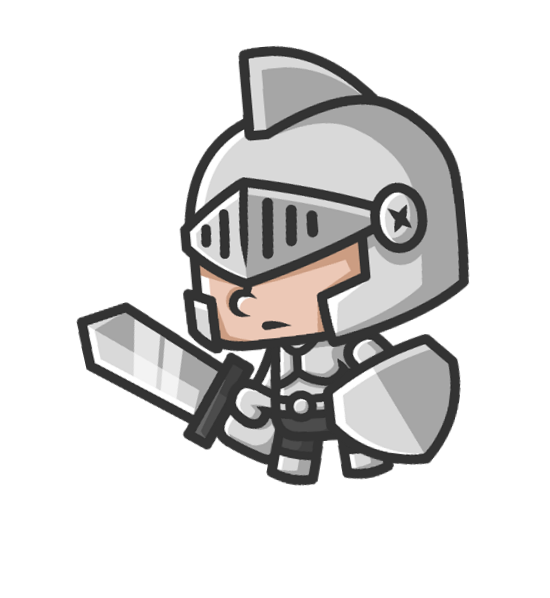
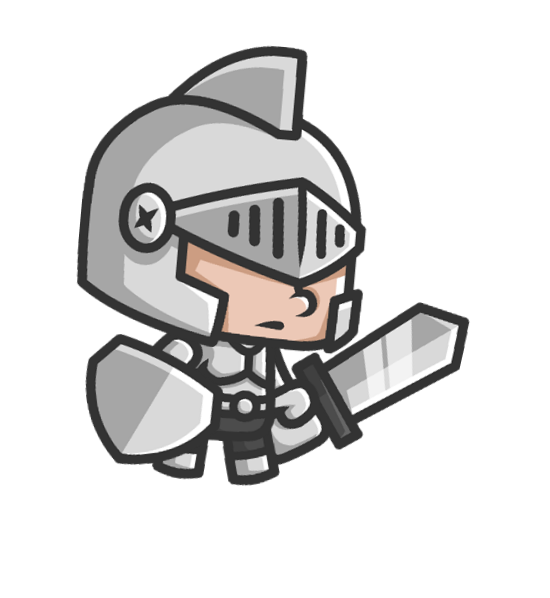
character moves perfect

diff --git a/js/Hero.js b/js/Hero.js
@@ -1,0 +1,185 @@
+var fps = 24;
+var knightIdleRight = ['images/knight/01-Idle_/2D_KNIGHT__Idle_000.png',
+               'images/knight/01-Idle_/2D_KNIGHT__Idle_001.png',
+               'images/knight/01-Idle_/2D_KNIGHT__Idle_002.png',
+               'images/knight/01-Idle_/2D_KNIGHT__Idle_003.png',
+               'images/knight/01-Idle_/2D_KNIGHT__Idle_004.png',
+               'images/knight/01-Idle_/2D_KNIGHT__Idle_005.png',
+               'images/knight/01-Idle_/2D_KNIGHT__Idle_006.png',
+               'images/knight/01-Idle_/2D_KNIGHT__Idle_007.png'];
+
+var knightRunRight = ['images/knight/02-Run_/2D_KNIGHT__Run_000.png',
+              'images/knight/02-Run_/2D_KNIGHT__Run_001.png',
+              'images/knight/02-Run_/2D_KNIGHT__Run_002.png',
+              'images/knight/02-Run_/2D_KNIGHT__Run_003.png',
+              'images/knight/02-Run_/2D_KNIGHT__Run_004.png',
+              'images/knight/02-Run_/2D_KNIGHT__Run_005.png',
+              'images/knight/02-Run_/2D_KNIGHT__Run_006.png',
+              'images/knight/02-Run_/2D_KNIGHT__Run_007.png'];
+
+var knightAttackRight = ['images/knight/03-Attack_/2D_KNIGHT__Attack_000.png',
+              'images/knight/03-Attack_/2D_KNIGHT__Attack_001.png',
+              'images/knight/03-Attack_/2D_KNIGHT__Attack_002.png',
+              'images/knight/03-Attack_/2D_KNIGHT__Attack_003.png',
+              'images/knight/03-Attack_/2D_KNIGHT__Attack_004.png',
+              'images/knight/03-Attack_/2D_KNIGHT__Attack_005.png',
+              'images/knight/03-Attack_/2D_KNIGHT__Attack_006.png',
+              'images/knight/03-Attack_/2D_KNIGHT__Attack_007.png'];
+
+var knightJumpRight = ['images/knight/04-Jump_/2D_KNIGHT__Jump_Up_000.png'];
+var knightJumpRightFinish = ['images/knight/04-Jump_/2D_KNIGHT__Fall_Down_000.png'];
+var knightHurtRight = ['images/knight/05-Hurt_/2D_KNIGHT__Hurt_000.png',
+              'images/knight/05-Hurt_/2D_KNIGHT__Hurt_001.png',
+              'images/knight/05-Hurt_/2D_KNIGHT__Hurt_002.png',
+              'images/knight/05-Hurt_/2D_KNIGHT__Hurt_003.png',
+              'images/knight/05-Hurt_/2D_KNIGHT__Hurt_004.png',
+              'images/knight/05-Hurt_2D_KNIGHT__Hurt_005.png',
+              'images/knight/05-Hurt_/2D_KNIGHT__Hurt_006.png',
+              'images/knight/05-Hurt_/2D_KNIGHT__Hurt_007.png'];
+
+var knightDieRight = ['images/knight/05-Die_/2D_KNIGHT__Die_000.png',
+              'images/knight/05-Die_/2D_KNIGHT__Die_001.png',
+              'images/knight/05-Die_/2D_KNIGHT__Die_002.png',
+              'images/knight/05-Die_/2D_KNIGHT__Die_003.png',
+              'images/knight/05-Die_/2D_KNIGHT__Die_004.png',
+              'images/knight/05-Die_2D_KNIGHT__Die_005.png',
+              'images/knight/05-Die_/2D_KNIGHT__Die_006.png',
+              'images/knight/05-Die_/2D_KNIGHT__Die_007.png'];
+
+var knightIdleLeft = ['images/knightLeft/01-Idle_/2D_KNIGHT__Idle_000.png',
+             'images/knightLeft/01-Idle_/2D_KNIGHT__Idle_001.png',
+             'images/knightLeft/01-Idle_/2D_KNIGHT__Idle_002.png',
+             'images/knightLeft/01-Idle_/2D_KNIGHT__Idle_003.png',
+             'images/knightLeft/01-Idle_/2D_KNIGHT__Idle_004.png',
+             'images/knightLeft/01-Idle_/2D_KNIGHT__Idle_005.png',
+             'images/knightLeft/01-Idle_/2D_KNIGHT__Idle_006.png',
+             'images/knightLeft/01-Idle_/2D_KNIGHT__Idle_007.png'];
+
+var knightRunLeft = ['images/knightLeft/02-Run_/2D_KNIGHT__Run_000.png',
+            'images/knightLeft/02-Run_/2D_KNIGHT__Run_001.png',
+            'images/knightLeft/02-Run_/2D_KNIGHT__Run_002.png',
+            'images/knightLeft/02-Run_/2D_KNIGHT__Run_003.png',
+            'images/knightLeft/02-Run_/2D_KNIGHT__Run_004.png',
+            'images/knightLeft/02-Run_/2D_KNIGHT__Run_005.png',
+            'images/knightLeft/02-Run_/2D_KNIGHT__Run_006.png',
+            'images/knightLeft/02-Run_/2D_KNIGHT__Run_007.png'];
+
+var knightAttackLeft = ['images/knightLeft/03-Attack_/2D_KNIGHT__Attack_000.png',
+            'images/knightLeft/03-Attack_/2D_KNIGHT__Attack_001.png',
+            'images/knightLeft/03-Attack_/2D_KNIGHT__Attack_002.png',
+            'images/knightLeft/03-Attack_/2D_KNIGHT__Attack_003.png',
+            'images/knightLeft/03-Attack_/2D_KNIGHT__Attack_004.png',
+            'images/knightLeft/03-Attack_/2D_KNIGHT__Attack_005.png',
+            'images/knightLeft/03-Attack_/2D_KNIGHT__Attack_006.png',
+            'images/knightLeft/03-Attack_/2D_KNIGHT__Attack_007.png'];
+
+var knightJumpLeft = ['images/knightLeft/04-Jump_/2D_KNIGHT__Jump_Up_000.png'];
+var knightJumpFinishLeft = ['images/knightLeft/04-Jump_/2D_KNIGHT__Fall_Down_000.png'];
+
+var knightHurtLeft = ['images/knightLeft/05-Hurt_/2D_KNIGHT__Hurt_000.png',
+            'images/knightLeft/05-Hurt_/2D_KNIGHT__Hurt_001.png',
+            'images/knightLeft/05-Hurt_/2D_KNIGHT__Hurt_002.png',
+            'images/knightLeft/05-Hurt_/2D_KNIGHT__Hurt_003.png',
+            'images/knightLeft/05-Hurt_/2D_KNIGHT__Hurt_004.png',
+            'images/knightLeft/05-Hurt_2D_KNIGHT__Hurt_005.png',
+            'images/knightLeft/05-Hurt_/2D_KNIGHT__Hurt_006.png',
+            'images/knightLeft/05-Hurt_/2D_KNIGHT__Hurt_007.png'];
+
+var knightDieLeft = ['images/knightLeft/05-Die_/2D_KNIGHT__Die_000.png',
+            'images/knightLeft/05-Die_/2D_KNIGHT__Die_001.png',
+            'images/knightLeft/05-Die_/2D_KNIGHT__Die_002.png',
+            'images/knightLeft/05-Die_/2D_KNIGHT__Die_003.png',
+            'images/knightLeft/05-Die_/2D_KNIGHT__Die_004.png',
+            'images/knightLeft/05-Die_2D_KNIGHT__Die_005.png',
+            'images/knightLeft/05-Die_/2D_KNIGHT__Die_006.png',
+            'images/knightLeft/05-Die_/2D_KNIGHT__Die_007.png'];
+
+var requestId;
+Hero.prototype = Object.create(Game.prototype);
+Hero.prototype.constructor = Hero;
+function Hero(img,x,y,width,height){
+  // Initial place of Hero
+  Stage.call(this,img,x,y,width,height);
+  this.status = knightIdleRight;
+  this.direction = 'Right';
+}
+
+Hero.prototype.drawHero = function(ctx,img){
+  ctx.drawImage(img,this.x,this.y,this.width,this.height);
+};
+
+Hero.prototype.moveToLeft = function(stage){
+  if (this.status != knightRunLeft) this.status = knightRunLeft;
+  if (this.direction != 'Left')   this.direction = 'Left';
+  if (this.x >= 0 && this.x <=410 && stage.x == 0 ||
+      this.x >= 400 && this.x <=750 && stage.x <= -800 && stage.x >= -1600
+      && this.x >= 400 && this.x <780){
+    this.x -= 5;
+  } else if (this.x > 30){
+    stage.x +=5;
+    }
+  };
+
+Hero.prototype.moveToRight = function(stage){
+  if (this.status != knightRunRight) this.status = knightRunRight;
+  if (this.direction != 'Right') this.direction = 'Right';
+  if (this.x >=400 && stage.x > -1600){ // (1600+800 width) 2400 max size
+    stage.x -= 5;
+  }else if(this.x < stage.width && this.x < 730){
+      this.x += 10;
+  }
+  console.log('this.x '+this.x+' stage.x '+stage.x+'stage.width: '+stage.width);
+};
+
+Hero.prototype.idle = function(){
+  if (this.direction == 'Left'){
+    if (this.status != knightIdleLeft) this.status = knightIdleLeft;
+  } else if (this.direction == 'Right'){
+    if (this.status != knightIdleRight) this.status = knightIdleRight;
+  }
+};
+
+Hero.prototype.attack = function(stage){
+  if (this.direction == 'Left'){
+    if (this.status != knightAttackLeft) this.status = knightAttackLeft;
+  } else if (this.direction == 'Right'){
+    if (this.status != knightAttackRight) this.status = knightAttackRight;
+  }
+  console.log('attacking!!!');
+};
+
+Hero.prototype.jump = function(){
+  if (this.direction == 'Left'){
+    if (this.status != knightJumpLeft) this.status = knightJumpLeft;
+  } else if (this.direction == 'Right'){
+    if (this.status != knightJumpRight) this.status = knightJumpRight;
+  }
+};
+
+Hero.prototype.land = function(){
+  if (this.direction == 'Left'){
+    if (this.status != knightJumpLeftFinish) this.status = knightJumpLeftFinish;
+  } else if (this.direction == 'Right'){
+    if (this.status != knightJumpRightFinish) this.status = knightJumpRightFinish;
+  }
+};
+// Animate our hero
+var x = 0;
+Hero.prototype.animation = function(){
+    if (x >= this.status.length) x = 0;
+    this.img.src = this.status[x];
+    x++;
+};
+
+// Move with Hero
+// var x = 0;
+// var ab = setInterval(function(e){
+// console.log(x);
+// ctx.clearRect(0,0,800,600)
+// ctx.drawImage(img,x,0);
+// x -= 2.5;
+// if (x <= -1600){
+//   clearInterval(ab);
+// }
+// },25)
+// };

diff --git a/js/main.js b/js/main.js
@@ -1,45 +1,59 @@
-
-
 window.onload = function() {
   // Start canvas
   var canvas = document.getElementById('game');
   var ctx = canvas.getContext('2d');
   // Start images objects
   var imgBackground = new Image();
-  var imgPlayer = new Image();
+  var imgHero = new Image();
   // Start background
   imgBackground.src = 'images/background1line.png';
-  imgBackground.width = 2400 ,imgBackground.height = 600;
-  var stage = new Stage(imgBackground,0,0,800,600);
+  imgBackground.width = 2400, imgBackground.height = 600;
+  var stage = new Stage(imgBackground, 0, 0, 800, 600);
   // Start player
-  imgPlayer.src = knightIdle[0];
-  imgPlayer.width = 47, imgPlayer.height = 53;
-  var newPlayer = new Player(imgPlayer,20,430,47,53);
+  imgHero.src = 'images/knight/01-Idle_/2D_KNIGHT__Idle_000.png';
+  imgHero.width = 47, imgHero.height = 53;
+  var myHero = new Hero(imgHero, 20, 420, 61, 69);
 
   // Paint all
   imgBackground.onload = function() {
-    stage.drawStage(ctx,stage.img,0);
-    newPlayer.drawPlayer(ctx,newPlayer.img);
-  }
+    stage.drawStage(ctx, stage.img, 0);
+    myHero.drawHero(ctx, myHero.img);
+  };
+  // Repaint continuously
+  setInterval(function() {
+    ctx.clearRect(stage.x, stage.y, stage.height, stage.width);
+    stage.drawStage(ctx, stage.img, 0);
+    myHero.drawHero(ctx, myHero.img);
+    myHero.animation();
+    if (myHero.status == 'knightJumpLeft' || myHero.status == 'knightJumpLeft' && myHero.y == 420){
+      myHero.land();
+    }
+    else if (myHero.status == 'knightJumpLeftFinish'){
+      myHero.idle();
+    }
+  }, 1000/48);
 
-  document.onkeydown = function(e){
+  document.onkeydown = function(e) {
     switch (e.keyCode) {
       case 37:
-        newPlayer.moveToLeft();
+        myHero.moveToLeft(stage);
         break;
       case 39:
-        newPlayer.moveToRight();
+        myHero.moveToRight(stage);
         break;
       case 38:
-        newPlayer.jump();
+      case 32:
+        myHero.jump();
+        break;
+      case 65:
+      case 97: // a & A
+        myHero.attack();
         break;
     }
-
-  document.onkeyup = function(e){
-    if (knightIdle)
-      newPlayer
-  }
-  }
+  };
+  document.onkeyup = function() {
+    if (myHero.y == 420) myHero.idle();
+  };
 
   // Paint Player
-}
+};

diff --git a/index.html b/index.html
@@ -10,7 +10,7 @@
   <script src="https://code.jquery.com/jquery-3.2.1.min.js" integrity="sha256-hwg4gsxgFZhOsEEamdOYGBf13FyQuiTwlAQgxVSNgt4=" crossorigin="anonymous"></script>
   <script src="./js/Game.js"></script>
   <script src="./js/main.js"></script>
-  <script src="./js/Player.js"></script>
+  <script src="./js/Hero.js"></script>
   <script src="./js/Stage.js"></script>
 </head>
 <body>

diff --git a/js/Stage.js b/js/Stage.js
@@ -4,7 +4,6 @@ function Stage(img,x,y,width,height){
   Game.call(this,img,x,y,height,width);
 }
 
-Stage.prototype.drawStage = function(ctx,img,x){
-  ctx.clearRect(0,0,800,600); // Clear full view
-  ctx.drawImage(img,x,0);
-}
+Stage.prototype.drawStage = function(ctx,img){
+  ctx.drawImage(img,this.x,0);
+};
